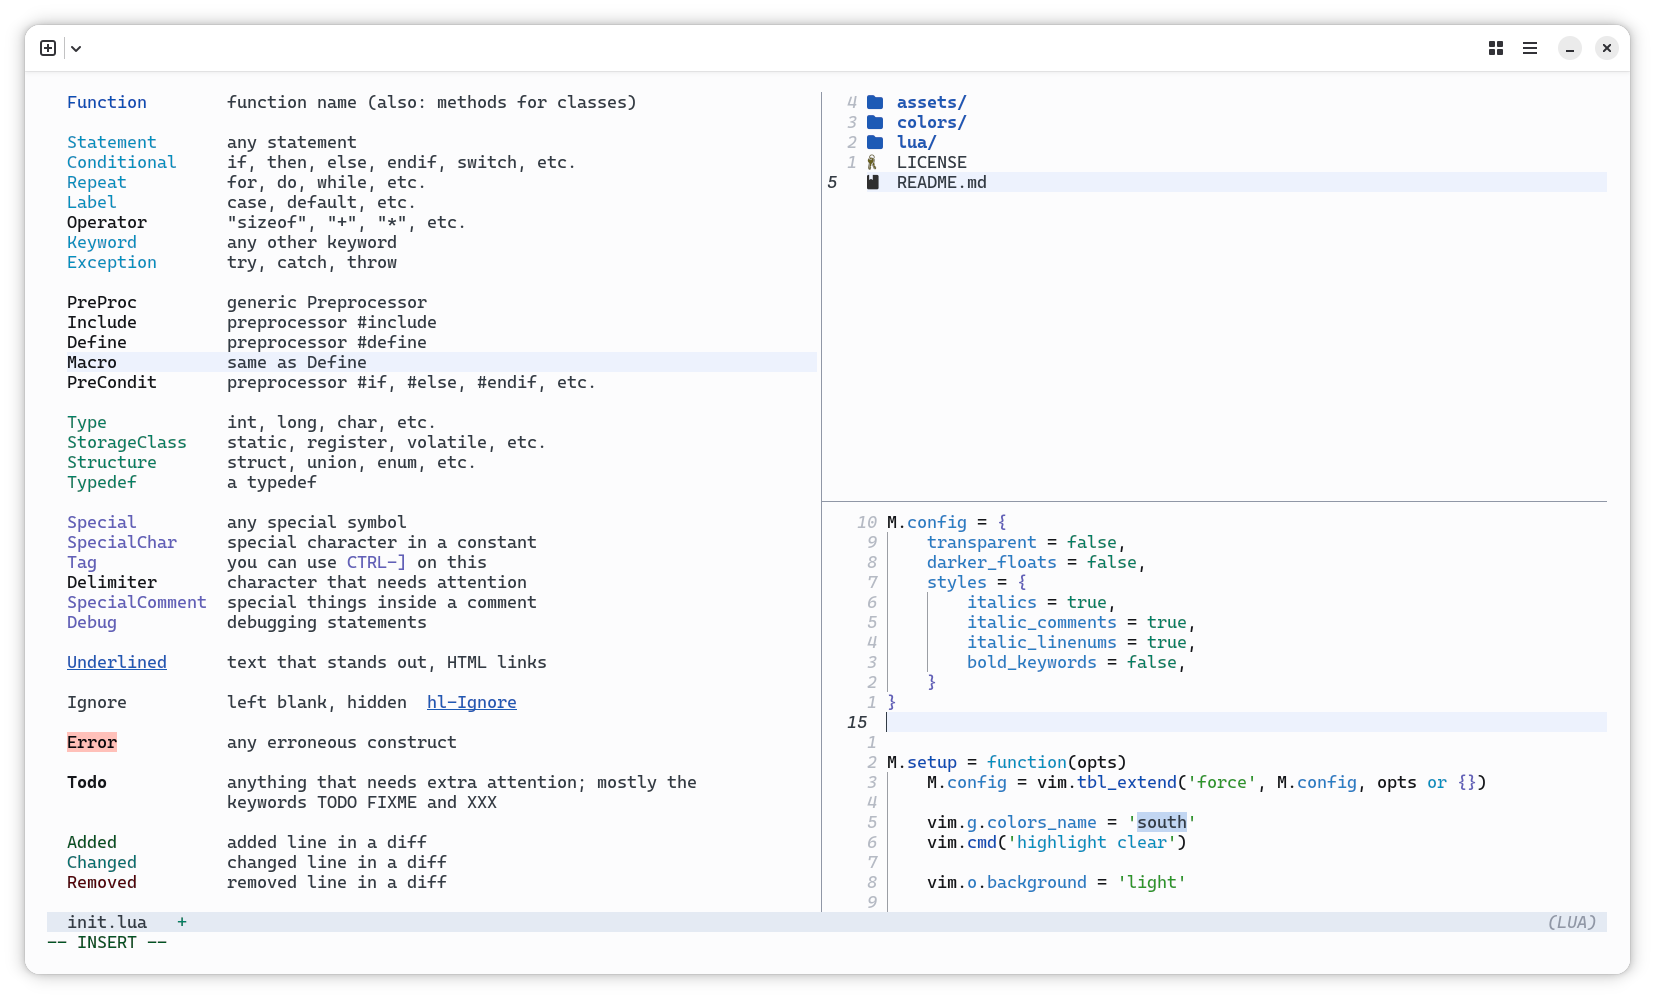
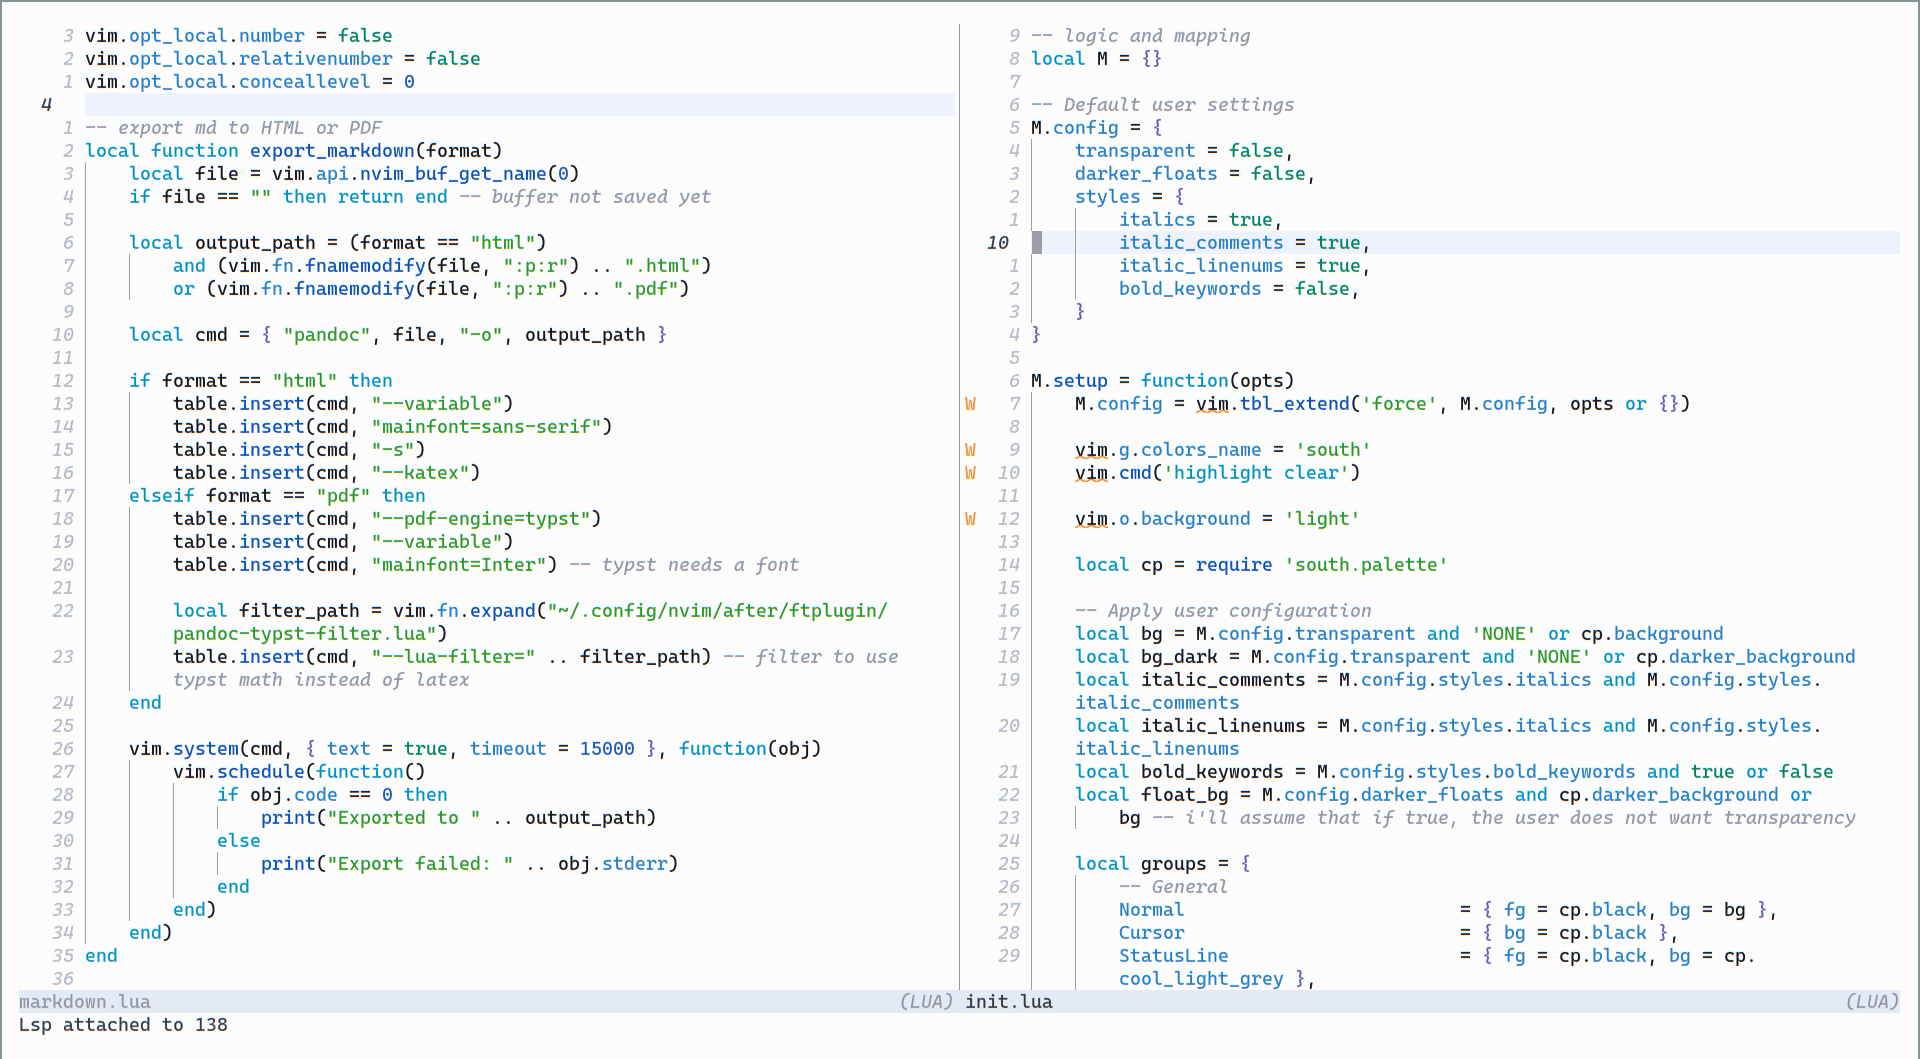
updated screenshots

diff --git a/README.md b/README.md
@@ -13,13 +13,13 @@ colour used for comments and specific UI elements, but not WCAG AAA compliant.
 
 ## Screenshots
 
-Some lua with Oil.nvim:
+Some lua:
 
 ![lua](assets/lua.png)
 
-Some C and typst code with telescope's `live_grep`:
+Some C:
 
-![telescope](assets/telescope.png)
+![C](assets/C.png)
 
 ## Installation and configuration
 